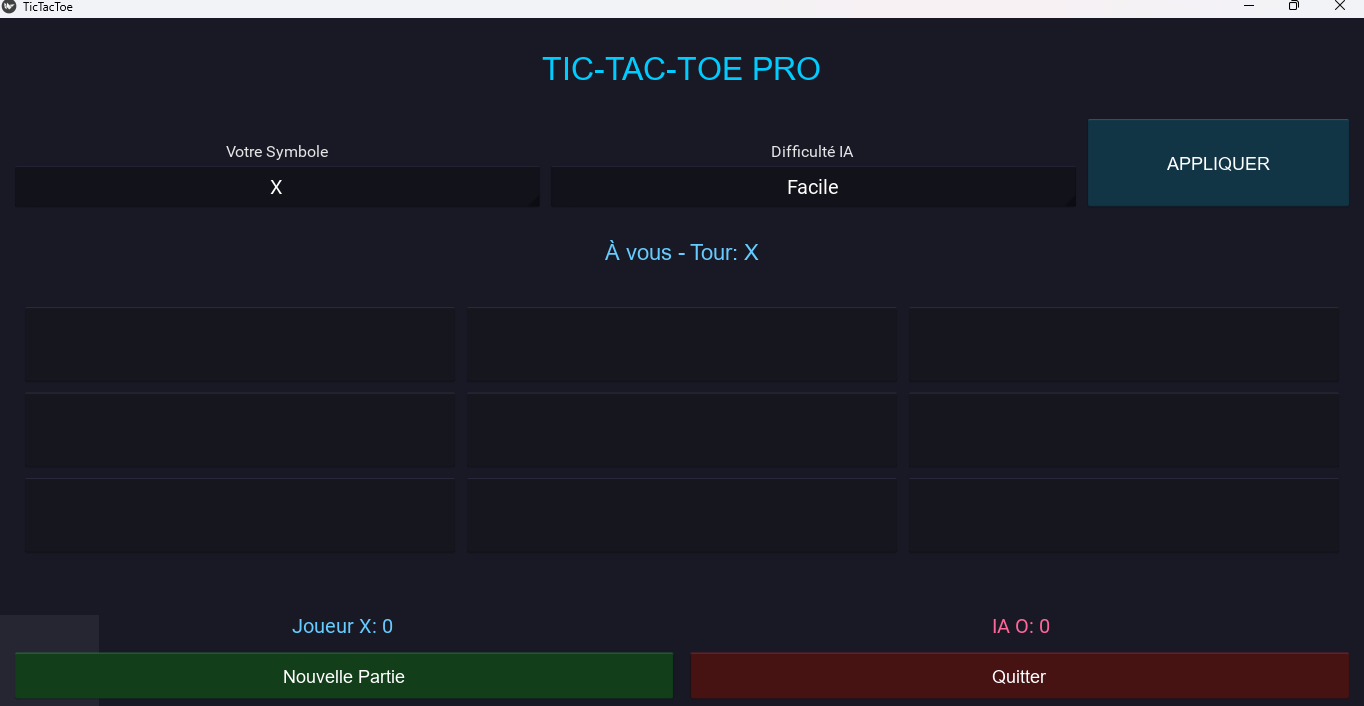
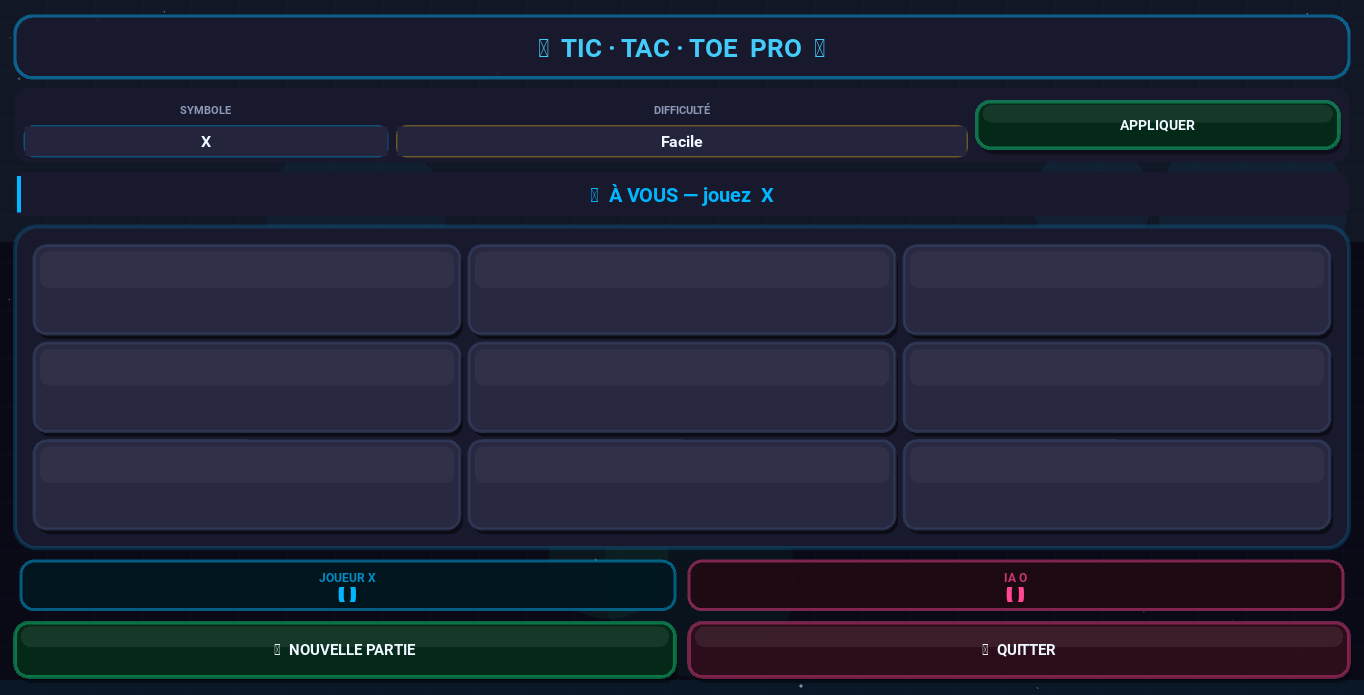
feat: update23

diff --git a/src/Projects.jsx b/src/Projects.jsx
@@ -1,5 +1,5 @@
-// Projects.jsx — fusion finale : design d'origine (cube 3D, néon, rubans, images) + FleetDesk (calendrier animé intégré au modal) + CryptoPredict AI (signal animé)
-// Palette: #3b82f6 · #8b5cf6 · #06b6d4 · #6366f1 · Animations: transform + opacité · prefers-reduced-motion respecté
+// Projects.jsx — fusion finale : design d'origine (cube 3D, néon, rubans, images) + FleetDesk (calendrier animé) + CryptoPredict AI (signal animé) + ADAS-DMS Lite (score de risque animé) + Galerie PFE (filtres rôle + lightbox)
+// Palette: #3b82f6 · #8b5cf6 · #06b6d4 · #6366f1 · #14b8a6 · Animations: transform + opacité · prefers-reduced-motion respecté
 
 import React, { useState, useRef, useEffect, useMemo } from 'react'
 import {
@@ -7,12 +7,29 @@ import {
   X, Car, Server, Smartphone, Gauge, Star, ArrowUpRight, Trophy, Box, Hand, ScanEye, Layers, Brain,
   Fingerprint, Move3d, RotateCcw, CalendarRange, Lock, MousePointer2, Activity,
   TrendingUp, Target, Coins, Signal,
+  ChevronLeft, ChevronRight, Maximize2, UserCog, Users2, UserCircle2,
 } from 'lucide-react'
 import { motion, AnimatePresence, useReducedMotion, useInView } from 'framer-motion'
 import image1 from './assets/image1.png'
 import image3 from './assets/image4.png'
 import cryptoHome from './assets/crypto-home.png'
 import cryptoDashboard from './assets/crypto-dashboard.png'
+import adasLogin from './assets/adas-login.png'
+import adasDashboardGestionnaire from './assets/adas-dashboard-gestionnaire.png'
+import adasDashboardConducteur from './assets/adas-dashboard-conducteur.png'
+
+// Captures d'écran du projet PFE (place les fichiers dans src/assets/pfe/)
+import alerteConducteur from './assets/pfe/alerte conducteur.jpeg'
+import carteGPS from './assets/pfe/Carte GPS.png'
+import dashboardAdministrateur from './assets/pfe/Dashboard Administrateur.jpeg'
+import dashboardConducteur from './assets/pfe/Dashboard conducteur.jpeg'
+import dashboardGestionnaire from './assets/pfe/Dashboard Gestionnaire.png'
+import historiqueConducteurA from './assets/pfe/Historique conducteur a.png'
+import historiqueConducteurB from './assets/pfe/Historique conducteur b.png'
+import interfaceMessagerie from './assets/pfe/Interface de gestion de messagerie.png'
+import interfaceGestionConducteurs from './assets/pfe/Interface de gestion des conducteurs.png'
+import messageConducteur from './assets/pfe/message conducteur.png'
+import profilConducteur from './assets/pfe/Profil conducteur.png'
 
 /* ═══ CSS injecté ═══ */
 const STYLES = `
@@ -82,6 +99,19 @@ const PROJECTS = [
       sub: 'Edge AI · YOLOv8n · MediaPipe · Spring Boot · React 18 · Flutter',
       intro: "Réalisé en binôme (avec Ahmed Arfaoui) au sein d'Alpha Technology (Ben Arous). Architecture à trois couches : détection embarquée, scoring backend et applications clientes.",
       title1: 'Architecture Edge-to-Cloud',
+      screenshots: [
+        [dashboardAdministrateur, 'Tableau de bord Administrateur', 'admin'],
+        [dashboardGestionnaire, 'Tableau de bord Gestionnaire', 'gestionnaire'],
+        [interfaceGestionConducteurs, 'Gestion des conducteurs', 'gestionnaire'],
+        [interfaceMessagerie, 'Messagerie (vue gestionnaire)', 'gestionnaire'],
+        [dashboardConducteur, 'Tableau de bord Conducteur', 'conducteur'],
+        [profilConducteur, 'Profil du conducteur', 'conducteur'],
+        [carteGPS, 'Carte GPS des alertes géolocalisées', 'conducteur'],
+        [historiqueConducteurA, 'Historique des événements (1/2)', 'conducteur'],
+        [historiqueConducteurB, 'Historique des événements (2/2)', 'conducteur'],
+        [alerteConducteur, 'Alerte de risque critique', 'conducteur'],
+        [messageConducteur, 'Messagerie (vue conducteur)', 'conducteur'],
+      ],
       blocks: [
         ['Couche 1 — Embarquée', Camera, '#a78bfa', 'Raspberry Pi 4 · CAM DMS + ADAS · YOLOv8n · MediaPipe FaceMesh · SQLite (store-and-forward)'],
         ['Couche 2 — Backend & scoring', Server, '#60a5fa', 'Spring Boot (JWT) · Edge Function Supabase (score-drivers, pg_cron 02h00)'],
@@ -122,7 +152,8 @@ const PROJECTS = [
       note: "Pour tester la démo : crée un compte (confirmation par e-mail), puis clique sur « Charger la démo » sur le tableau de bord. Chaque société est isolée par la RLS.",
       links: [['Résumé détaillé', 'https://github.com/badiegmati/fleetdesk/blob/main/resume.md']],
     },
-  },{
+  },
+  {
     id: 3, cube: true, featured: true, neon: 'rgba(99,102,241,.30)', icon: Box,
     title: "Rubik's Cube AR — Contrôle Gestuel",
     description: "Application de réalité augmentée Python : un Rubik's Cube 3×3 flotte devant la caméra et se manipule à la main grâce à MediaPipe Hands. Pincement pour tourner une face, poing pour orbiter, pouce levé pour mélanger.",
@@ -173,6 +204,44 @@ const PROJECTS = [
       images: [[cryptoHome, "Page d'accueil — recherche de paires"], [cryptoDashboard, 'Dashboard — signal et métriques']],
       metrics: [['511', 'Paires USDT suivies'], ['38-48%', 'Win rate (vs 33,3% hasard)'], ['4', 'Horizons de prédiction'], ['24', 'Modèles .pkl en production']],
       note: "Edge réel confirmé : 38-48% de win rate sur trades filtrés DOGEUSDT/1h (hasard = 33,3% sur 3 classes), validé par walk-forward et répliqué sur données 2024-2025 hors échantillon. Communiqué sans enjoliver — aucune accuracy trompeuse jamais affichée sans intervalle de confiance complet.",
+      links: [],
+    },
+  },
+  {
+    id: 9, kind: 'adas', featured: false, neon: 'rgba(20,184,166,.28)', icon: Eye,
+    title: 'ADAS-DMS Lite — Supervision du Comportement du Conducteur',
+    description: "Projet académique : supervision du comportement du conducteur par vision par ordinateur. Détection de la somnolence et du bâillement par webcam (EAR/MAR), détection du téléphone au volant (YOLOv8n), score de risque calculé par décroissance exponentielle, et trois tableaux de bord par rôle (admin, gestionnaire, conducteur) déployés en production.",
+    tech: ['Python', 'OpenCV', 'MediaPipe', 'YOLOv8n', 'Spring Boot 3', 'Java 17', 'Supabase', 'PostgreSQL', 'React 18', 'Vite', 'TailwindCSS', 'Render', 'Vercel'],
+    features: [
+      'Détection EAR/MAR (somnolence, bâillement) via webcam',
+      "Détection du téléphone au volant (YOLOv8n)",
+      'Score de risque par décroissance exponentielle',
+      'Authentification JWT (cookie httpOnly) et 3 rôles distincts',
+    ],
+    kpis: [['3', 'Rôles utilisateurs'], ['JWT', 'Cookie httpOnly sécurisé'], ['2', 'Signaux (EAR + MAR)'], ['3', 'Services cloud déployés']],
+    chips: [[Shield, 'Isolation par gestionnaire', '#14b8a6'], [Lock, 'JWT httpOnly', '#06b6d4'], [Eye, 'Détection webcam', '#10b981'], [Gauge, 'Score exponentiel', '#22c55e']],
+    gradient: 'from-teal-500 via-emerald-500 to-green-600', color: '#14b8a6',
+    ribbon: 'Projet académique', status: 'Déployé · En ligne',
+    demo: 'https://adas-dms-lite.vercel.app',
+    modal: {
+      sub: 'Python · MediaPipe · YOLOv8n · Spring Boot 3 · React 18 · Supabase',
+      intro: "Projet universitaire autonome (version simplifiée, sans matériel embarqué ni machine learning avancé) : un client de détection en Python écrit directement les alertes dans Supabase, un backend Spring Boot sécurise l'accès aux données par rôle, et un frontend React affiche trois tableaux de bord distincts.",
+      title1: 'Architecture et captures du projet',
+      images: [
+        [adasLogin, 'Page de connexion'],
+        [adasDashboardGestionnaire, 'Dashboard gestionnaire — carte Leaflet'],
+        [adasDashboardConducteur, 'Dashboard conducteur'],
+      ],
+      blocks: [
+        ['Client de détection', Camera, '#14b8a6', 'Python + OpenCV + MediaPipe Face Mesh : calcul EAR/MAR, YOLOv8n pour la détection du téléphone, écriture directe des alertes dans Supabase'],
+        ['Backend API', Server, '#06b6d4', 'Spring Boot 3 / Java 17 : authentification JWT (cookie httpOnly), routes par rôle, calcul du score de risque en SQL'],
+        ['Base de données', Database, '#10b981', 'Supabase / PostgreSQL managé, source unique de vérité partagée entre le client Python et le backend'],
+        ['Frontend', Globe, '#22c55e', 'React 18 + Vite + TailwindCSS : 3 tableaux de bord par rôle, carte Leaflet/OpenStreetMap'],
+        ['Sécurité', Shield, '#06b6d4', 'Isolation stricte des données entre gestionnaires, vérifiée par tests manuels (accès refusé 401/403)'],
+        ['Déploiement', Zap, '#14b8a6', 'Backend conteneurisé (Docker) sur Render, frontend statique sur Vercel, cookie cross-domain SameSite=None'],
+      ],
+      metrics: [],
+      note: "Projet académique réalisé en complément du PFE, dans une version volontairement simplifiée : pas de matériel embarqué, pas de modèle de machine learning entraîné, pas d'application mobile. L'objectif était de maîtriser l'ensemble de la chaîne (détection, backend, frontend, déploiement cloud) sur un périmètre réduit.",
       links: [],
     },
   },
@@ -333,6 +402,167 @@ function SignalTicker({ inView, reduced }) {
   )
 }
 
+/* ═══ Démo score de risque animée (ADAS-DMS Lite) ═══ */
+const ALERTES_ADAS = [
+  { label: 'RAS — conduite normale', color: '#10b981', score: 94 },
+  { label: 'Bâillement détecté', color: '#f59e0b', score: 76 },
+  { label: 'Somnolence (EAR bas)', color: '#ef4444', score: 52 },
+  { label: 'Téléphone au volant', color: '#ef4444', score: 61 },
+]
+function RiskScoreDemo({ inView, reduced }) {
+  const [idx, setIdx] = useState(0)
+  useEffect(() => {
+    if (reduced) return
+    const t = setInterval(() => setIdx((i) => (i + 1) % ALERTES_ADAS.length), 2600)
+    return () => clearInterval(t)
+  }, [reduced])
+  const a = ALERTES_ADAS[idx]
+  return (
+    <div className="overflow-hidden rounded-xl border border-white/[0.07] p-5" style={{ background: 'rgba(4,8,22,.72)' }}
+      role="img" aria-label="Démonstration animée du score de risque et des alertes de supervision">
+      <div className="mb-4 flex items-center justify-between">
+        <div className="flex items-center gap-2">
+          <Eye size={15} className="text-teal-400" />
+          <span className="font-mono text-sm font-bold text-white">Conducteur C10</span>
+        </div>
+        <span className="rounded-md px-2 py-0.5 text-[10px] font-semibold" style={{ background: 'rgba(20,184,166,.15)', color: '#2dd4bf' }}>webcam active</span>
+      </div>
+      <AnimatePresence mode="wait">
+        <motion.div key={idx} initial={reduced ? false : { opacity: 0, y: 8 }} animate={{ opacity: 1, y: 0 }} exit={{ opacity: 0, y: -8 }} transition={{ duration: 0.4 }}
+          className="mb-3 flex items-center gap-3">
+          <span className="rounded-lg px-3 py-1.5 text-sm font-black tracking-wide" style={{ background: `${a.color}22`, color: a.color, border: `1px solid ${a.color}55` }}>{a.label}</span>
+        </motion.div>
+      </AnimatePresence>
+      <div className="mb-1.5 flex items-center justify-between text-[11px] text-gray-500">
+        <span>Score de risque</span><span className="font-mono font-semibold text-gray-300">{a.score}/100</span>
+      </div>
+      <div className="h-2 w-full overflow-hidden rounded-full bg-white/[0.06]">
+        <motion.div className="h-full rounded-full" style={{ background: a.color }}
+          initial={reduced ? false : { width: '0%' }} animate={{ width: `${a.score}%` }} transition={{ duration: 0.9, ease: EASE }} />
+      </div>
+      <p className="mt-3 text-[11px] leading-relaxed text-gray-500">Simulation illustrative du cycle d'alerte (le score réel décroît exponentiellement après chaque événement détecté par le client Python).</p>
+    </div>
+  )
+}
+
+/* ═══ Galerie de captures — PFE ADAS/DMS ═══ */
+const PFE_ROLES = [
+  { k: 'tous', l: 'Toutes', icon: ScanEye, color: '#a78bfa' },
+  { k: 'admin', l: 'Administrateur', icon: UserCog, color: '#a78bfa' },
+  { k: 'gestionnaire', l: 'Gestionnaire', icon: Users2, color: '#22d3ee' },
+  { k: 'conducteur', l: 'Conducteur', icon: UserCircle2, color: '#fb7185' },
+]
+
+function ScreenshotGallery({ screenshots, reduced }) {
+  const [cat, setCat] = useState('tous')
+  const [lightbox, setLightbox] = useState(null)
+  const filtered = cat === 'tous' ? screenshots : screenshots.filter((s) => s[2] === cat)
+  const roleColor = (k) => PFE_ROLES.find((r) => r.k === k)?.color || '#a78bfa'
+
+  useEffect(() => {
+    if (lightbox === null) return
+    const k = (e) => {
+      if (e.key === 'Escape') setLightbox(null)
+      if (e.key === 'ArrowRight') setLightbox((i) => (i + 1) % filtered.length)
+      if (e.key === 'ArrowLeft') setLightbox((i) => (i - 1 + filtered.length) % filtered.length)
+    }
+    window.addEventListener('keydown', k)
+    return () => window.removeEventListener('keydown', k)
+  }, [lightbox, filtered.length])
+
+  return (
+    <div>
+      {/* Filtres par rôle */}
+      <div className="mb-4 flex flex-wrap gap-1.5">
+        {PFE_ROLES.map((r) => {
+          const count = r.k === 'tous' ? screenshots.length : screenshots.filter((s) => s[2] === r.k).length
+          return (
+            <button key={r.k} onClick={() => { setCat(r.k); setLightbox(null) }}
+              className="relative flex items-center gap-1.5 overflow-hidden rounded-full px-3.5 py-1.5 text-xs font-semibold transition-colors duration-200"
+              style={{ color: cat === r.k ? '#fff' : '#9ca3af', background: cat === r.k ? 'transparent' : 'rgba(255,255,255,.04)' }}>
+              {cat === r.k && (
+                <motion.div layoutId="pfe-role-filter" className="absolute inset-0"
+                  style={{ background: `linear-gradient(90deg,${r.color}dd,${r.color}99)` }}
+                  transition={{ type: 'spring', stiffness: 340, damping: 28 }} />
+              )}
+              <span className="relative z-10 flex items-center gap-1.5">
+                <r.icon size={13} />{r.l}
+                <span className="rounded-full bg-black/25 px-1.5 text-[10px]">{count}</span>
+              </span>
+            </button>
+          )
+        })}
+      </div>
+
+      {/* Grille de vignettes */}
+      <motion.div layout className="grid grid-cols-2 gap-3 sm:grid-cols-3">
+        <AnimatePresence mode="popLayout">
+          {filtered.map(([src, label, c], i) => (
+            <motion.button key={src} layout type="button" onClick={() => setLightbox(i)}
+              initial={{ opacity: 0, y: 14, scale: 0.92 }} animate={{ opacity: 1, y: 0, scale: 1 }} exit={{ opacity: 0, scale: 0.9 }}
+              transition={{ delay: reduced ? 0 : i * 0.04, duration: 0.4, ease: EASE }}
+              whileHover={reduced ? {} : { y: -4, scale: 1.02 }}
+              className="group relative overflow-hidden rounded-xl border text-left"
+              style={{ borderColor: `${roleColor(c)}35`, boxShadow: `0 8px 24px ${roleColor(c)}14` }}>
+              <img src={src} alt={label} loading="lazy"
+                className="h-32 w-full object-cover object-top transition-transform duration-500 group-hover:scale-110 sm:h-36" />
+              <div className="pointer-events-none absolute inset-0 bg-gradient-to-t from-black/85 via-black/10 to-transparent opacity-85 transition-opacity duration-300 group-hover:opacity-95" />
+              <div className="absolute inset-x-0 bottom-0 p-2">
+                <span className="mb-1 inline-flex items-center gap-1 rounded-full px-1.5 py-0.5 text-[9px] font-bold uppercase tracking-wide"
+                  style={{ background: `${roleColor(c)}2a`, color: roleColor(c) }}>
+                  {PFE_ROLES.find((r) => r.k === c)?.l}
+                </span>
+                <p className="text-[11px] font-medium leading-tight text-white">{label}</p>
+              </div>
+              <div className="absolute right-1.5 top-1.5 rounded-lg bg-black/40 p-1 opacity-0 backdrop-blur-sm transition-opacity duration-200 group-hover:opacity-100">
+                <Maximize2 size={12} className="text-white" />
+              </div>
+            </motion.button>
+          ))}
+        </AnimatePresence>
+      </motion.div>
+
+      {/* Lightbox plein écran */}
+      <AnimatePresence>
+        {lightbox !== null && filtered[lightbox] && (
+          <motion.div initial={{ opacity: 0 }} animate={{ opacity: 1 }} exit={{ opacity: 0 }}
+            className="fixed inset-0 z-[60] flex items-center justify-center bg-black/95 p-4 backdrop-blur-2xl"
+            onClick={() => setLightbox(null)}>
+            <button onClick={() => setLightbox(null)} aria-label="Fermer"
+              className="absolute right-5 top-5 rounded-xl border border-white/10 bg-white/5 p-2.5 text-white transition hover:bg-white/10">
+              <X size={20} />
+            </button>
+            <button onClick={(e) => { e.stopPropagation(); setLightbox((lightbox - 1 + filtered.length) % filtered.length) }}
+              aria-label="Précédent"
+              className="absolute left-3 top-1/2 -translate-y-1/2 rounded-full border border-white/10 bg-white/5 p-2.5 text-white transition hover:bg-white/15 md:left-6">
+              <ChevronLeft size={22} />
+            </button>
+            <button onClick={(e) => { e.stopPropagation(); setLightbox((lightbox + 1) % filtered.length) }}
+              aria-label="Suivant"
+              className="absolute right-3 top-1/2 -translate-y-1/2 rounded-full border border-white/10 bg-white/5 p-2.5 text-white transition hover:bg-white/15 md:right-6">
+              <ChevronRight size={22} />
+            </button>
+            <motion.div key={lightbox} initial={{ opacity: 0, scale: 0.94 }} animate={{ opacity: 1, scale: 1 }} exit={{ opacity: 0, scale: 0.96 }}
+              transition={{ duration: 0.25, ease: EASE }} onClick={(e) => e.stopPropagation()}
+              className="flex max-h-[88vh] max-w-4xl flex-col items-center gap-4">
+              <img src={filtered[lightbox][0]} alt={filtered[lightbox][1]}
+                className="max-h-[75vh] rounded-xl border border-white/10 object-contain shadow-2xl" />
+              <div className="flex flex-wrap items-center justify-center gap-3 text-center">
+                <span className="rounded-full px-2.5 py-1 text-[10px] font-bold uppercase tracking-wide"
+                  style={{ background: `${roleColor(filtered[lightbox][2])}2a`, color: roleColor(filtered[lightbox][2]) }}>
+                  {PFE_ROLES.find((r) => r.k === filtered[lightbox][2])?.l}
+                </span>
+                <p className="text-sm font-medium text-white">{filtered[lightbox][1]}</p>
+                <span className="font-mono text-xs text-gray-500">{lightbox + 1}/{filtered.length}</span>
+              </div>
+            </motion.div>
+          </motion.div>
+        )}
+      </AnimatePresence>
+    </div>
+  )
+}
+
 /* ═══ Modal détaillé (piloté par les données) ═══ */
 function DetailModal({ project, onClose, reduced }) {
   const m = project?.modal
@@ -388,6 +618,15 @@ function DetailModal({ project, onClose, reduced }) {
                   </div>
                 </div>
               ) : <p className="text-sm leading-relaxed text-gray-300">{m.intro}</p>}
+
+              {project.kind === 'pfe' && m.screenshots && (
+                <div>
+                  <div className="mb-4 flex items-center gap-2 text-sm font-semibold text-white">
+                    <Camera size={16} style={{ color: project.color }} />Captures d'écran de l'application
+                  </div>
+                  <ScreenshotGallery screenshots={m.screenshots} reduced={reduced} />
+                </div>
+              )}
 
               {project.kind === 'fleet' && (
                 <div className="space-y-6">
@@ -473,6 +712,48 @@ function DetailModal({ project, onClose, reduced }) {
                 </div>
               )}
 
+              {project.kind === 'adas' && (
+                <div className="space-y-6">
+                  <div>
+                    <div className="mb-3 flex items-center gap-2 text-sm font-semibold text-white">
+                      <Zap size={16} style={{ color: project.color }} />Points forts
+                    </div>
+                    <div className="flex flex-wrap gap-2">
+                      {project.chips.map(([I, l, c]) => (
+                        <motion.div key={l} initial={{ opacity: 0, y: 8 }} animate={{ opacity: 1, y: 0 }} transition={{ delay: 0.05 }}
+                          className="flex items-center gap-1.5 rounded-lg border px-3 py-1.5 text-xs font-medium"
+                          style={{ borderColor: `${c}30`, background: `${c}0d`, color: c }}>
+                          <I size={13} />{l}
+                        </motion.div>
+                      ))}
+                    </div>
+                  </div>
+
+                  <div>
+                    <div className="mb-3 flex items-center gap-2 text-sm font-semibold text-white">
+                      <Gauge size={16} style={{ color: project.color }} />Indicateurs clés
+                    </div>
+                    <div className="grid grid-cols-2 gap-3 md:grid-cols-4">
+                      {project.kpis.map(([v, l], i) => (
+                        <motion.div key={l} initial={{ opacity: 0, scale: 0.85 }} animate={{ opacity: 1, scale: 1 }}
+                          transition={{ delay: 0.1 + i * 0.06, type: 'spring', stiffness: 200 }}
+                          className="rounded-xl border border-white/[0.06] p-4 text-center" style={{ background: 'rgba(255,255,255,.03)' }}>
+                          <div className="text-xl font-black tabular-nums" style={{ color: project.color }}>{v}</div>
+                          <div className="text-[11px] text-gray-500">{l}</div>
+                        </motion.div>
+                      ))}
+                    </div>
+                  </div>
+
+                  <div>
+                    <div className="mb-3 flex items-center gap-2 text-sm font-semibold text-white">
+                      <Activity size={16} style={{ color: project.color }} />Supervision en direct
+                    </div>
+                    <RiskScoreDemo inView reduced={reduced} />
+                  </div>
+                </div>
+              )}
+
               {m.images && (
                 <div className="grid gap-4 md:grid-cols-2">
                   {m.images.map(([src, label], i) => (
@@ -538,7 +819,7 @@ function ProjectCard({ project: p, index, reduced, onOpen }) {
   const [hov, setHov] = useState(false)
   const Icon = p.icon
   const btn = 'flex items-center gap-2 rounded-xl px-4 py-2.5 text-sm font-medium transition-all duration-200'
-  const ribbonBg = p.kind === 'pfe' ? 'linear-gradient(90deg,#7c3aed,#4f46e5)' : p.cube ? 'linear-gradient(90deg,#6366f1,#8b5cf6,#06b6d4)' : p.kind === 'crypto' ? 'linear-gradient(90deg,#06b6d4,#3b82f6,#6366f1)' : 'linear-gradient(90deg,#3b82f6,#6366f1,#06b6d4)'
+  const ribbonBg = p.kind === 'pfe' ? 'linear-gradient(90deg,#7c3aed,#4f46e5)' : p.cube ? 'linear-gradient(90deg,#6366f1,#8b5cf6,#06b6d4)' : p.kind === 'crypto' ? 'linear-gradient(90deg,#06b6d4,#3b82f6,#6366f1)' : p.kind === 'adas' ? 'linear-gradient(90deg,#14b8a6,#10b981,#22c55e)' : 'linear-gradient(90deg,#3b82f6,#6366f1,#06b6d4)'
   const Label = ({ icon: I, children }) => <div className="mb-3 flex items-center gap-2"><I size={13} style={{ color: p.color }} /><span className="text-[10px] font-bold uppercase tracking-[0.2em] text-gray-500">{children}</span></div>
   const Bullet = <div className={`mt-1.5 h-1.5 w-1.5 flex-shrink-0 rounded-full bg-gradient-to-r ${p.gradient}`} />
 
@@ -562,7 +843,7 @@ function ProjectCard({ project: p, index, reduced, onOpen }) {
         {p.ribbon && (
           <motion.div initial={{ x: -60, opacity: 0 }} animate={inView ? { x: 0, opacity: 1 } : {}} transition={{ delay: 0.45, duration: 0.6, ease: EASE }}
             className="absolute left-0 top-5 z-10 flex items-center gap-1.5 rounded-r-full py-1 pl-4 pr-3 text-xs font-bold text-white shadow-lg" style={{ background: ribbonBg }}>
-            {p.kind === 'pfe' ? <Star size={11} fill="white" /> : p.cube ? <Box size={11} /> : p.kind === 'crypto' ? <TrendingUp size={11} /> : <Server size={11} />}{p.ribbon}
+            {p.kind === 'pfe' ? <Star size={11} fill="white" /> : p.cube ? <Box size={11} /> : p.kind === 'crypto' ? <TrendingUp size={11} /> : p.kind === 'adas' ? <Eye size={11} /> : <Server size={11} />}{p.ribbon}
           </motion.div>
         )}
         <span className="absolute right-4 top-4 z-10 inline-flex items-center gap-1.5 whitespace-nowrap rounded-full border px-3 py-1 text-xs font-semibold"
